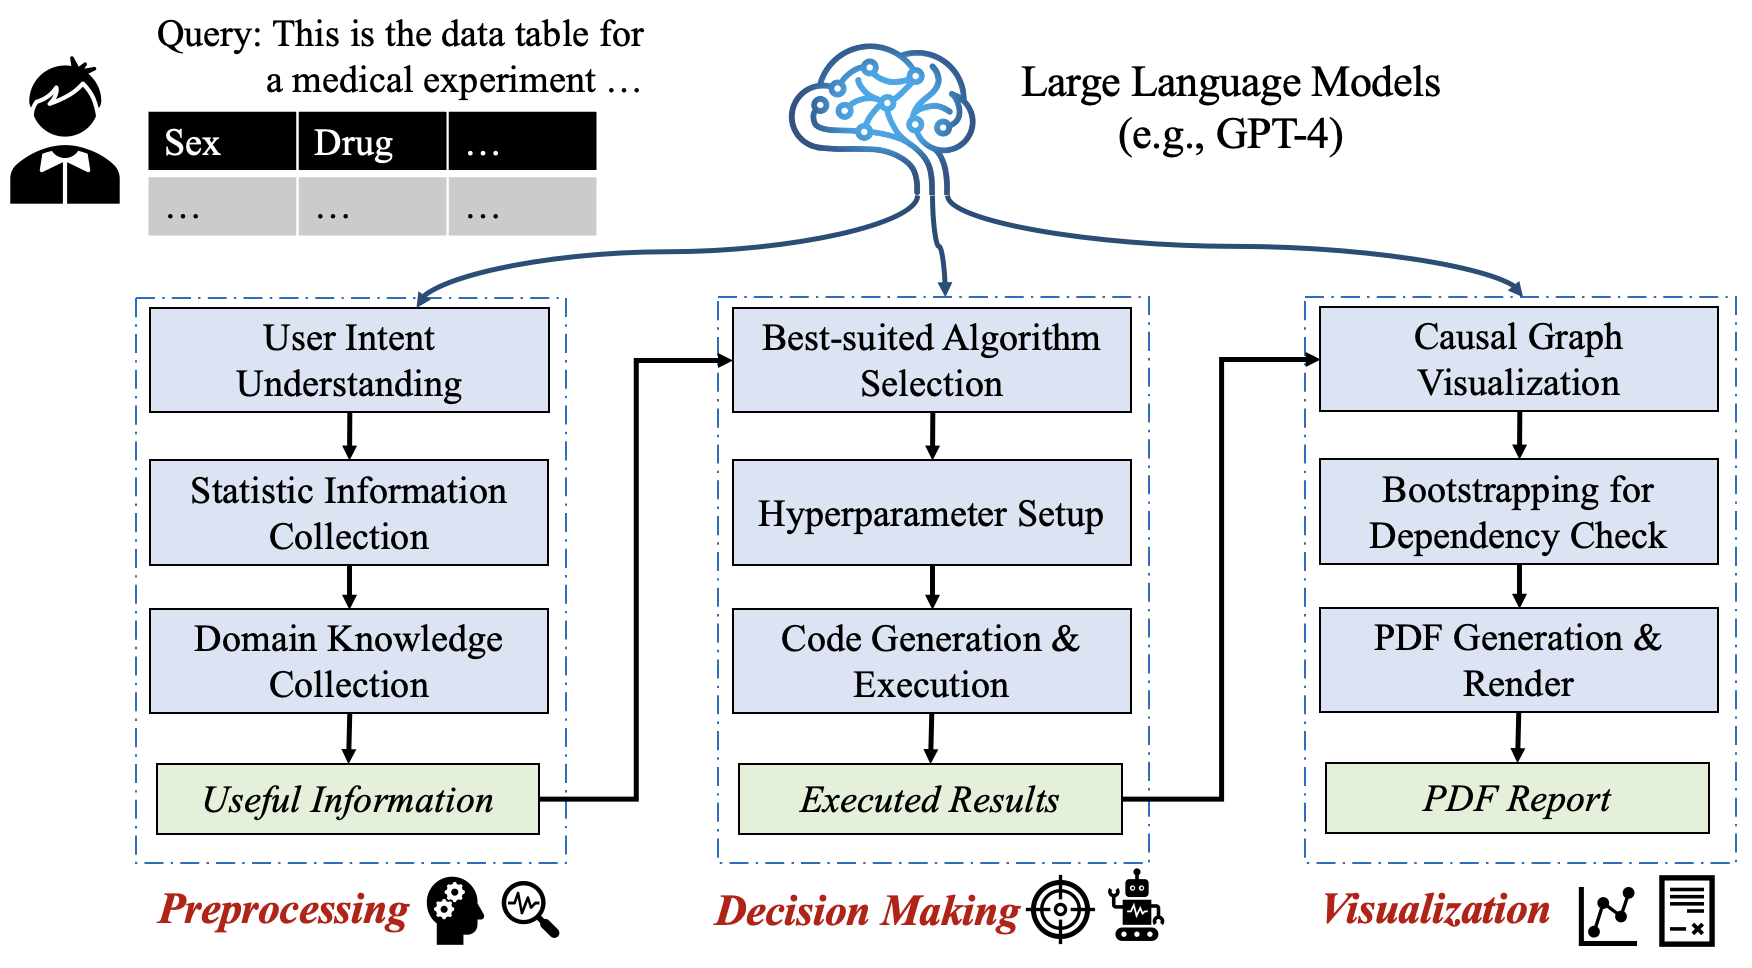
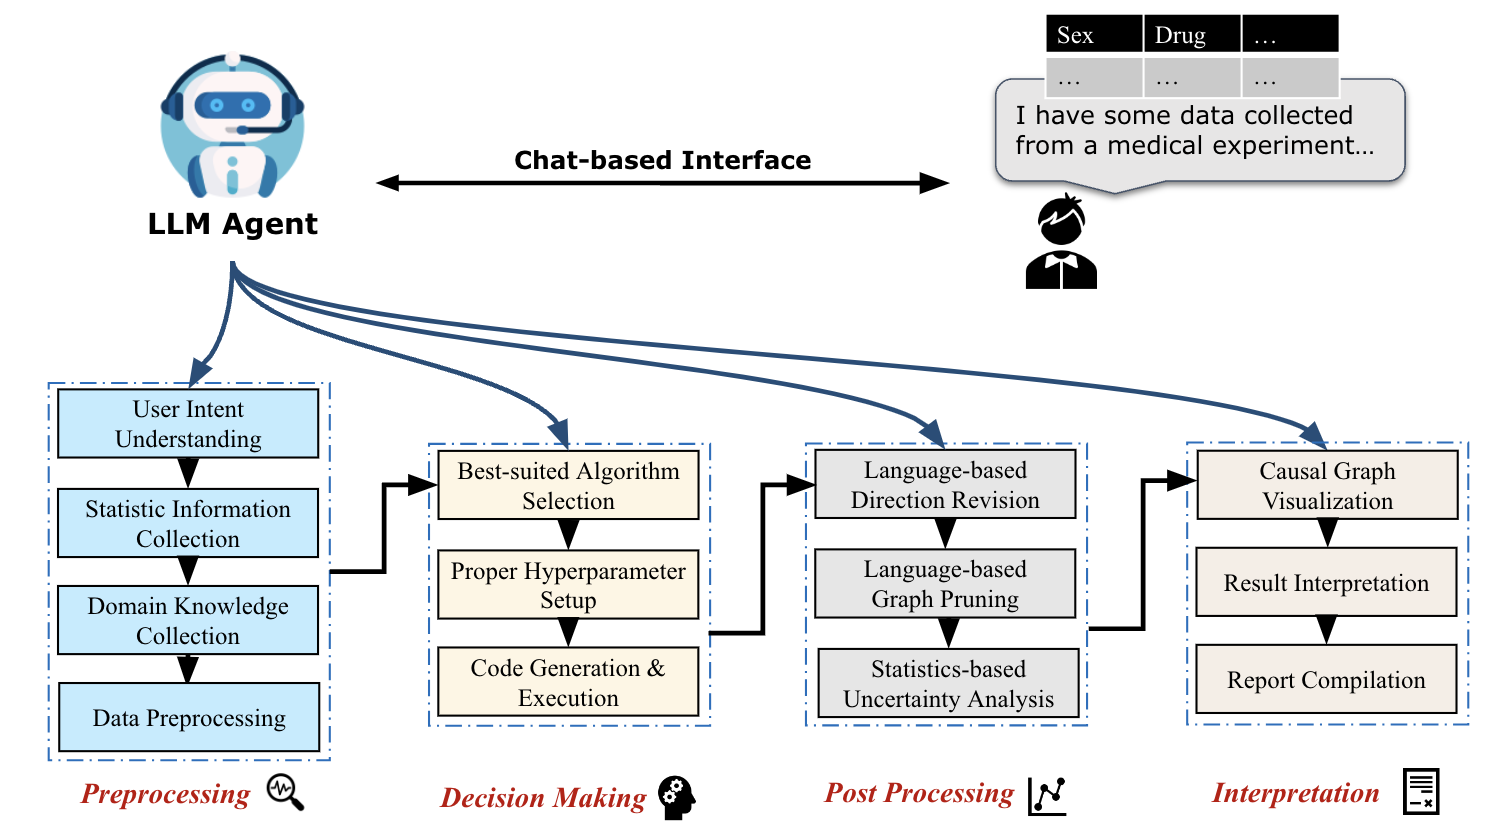
update readme

diff --git a/README.md b/README.md
@@ -51,14 +51,15 @@ We provide some examples of our system automatically generated reports for open-
 
 ## Features
 
-- **Automated Causal Analysis**: Harnesses the power of large language models combined with domain expertise to select optimal causal analysis algorithms and hyperparameters. Incorporates proven methodological insights from causal discovery researchers to ensure the analytical reliability, without the requirements in expertise about causality and extensive parameter tuning.
+- **Automated Causal Analysis**: Harnesses the power of large language models combined with domain expertise to select optimal causal analysis algorithms and hyperparameters. Incorporates proven methodological insights from causal discovery researchers to ensure the analytical reliability, without the requirements in expertise about causality and extensive parameter tuning. 
+- **Statistical-LLM Hybrid Post Processing**: Present the edge uncertainty examination (bootstrap), as well as graph pruning and direction revision driven by LLM's prior knowledge.
 - **Chat-based User-friendly Interface**: Navigate complex causal analysis through natural dialogue, and visualize data statistics and causal graphs through clear, intuitive figures, without wrestling with technical details. 
 - **Comprehensive Analysis Report**: Provide well-formulated scientific report for the whole causal analysis process, containing detailed explanation documenting the complete analytical process, intuitive visualization and in-depth interpretation of the findings.
 - **Extensibility**: Maintain open interfaces for integrating new causal analysis algorithms and support seamless incorporation of emerging causality-related libraries and methodologies
 
 ### Architecture Details
 
-- Our Causal-Copilot consists of three components, namely preprocessing, decision making and visualization parts, which are all supported by SOTA LLMs (e.g., GPT-4o).
+- Our Causal-Copilot consists of four components, namely preprocessing, decision making, post processing and intepretation parts, which are all supported by SOTA LLMs (e.g., GPT-4o, GPT-4o-mini).
 
 <h1 align="center">
 <div style="text-align: center;">
